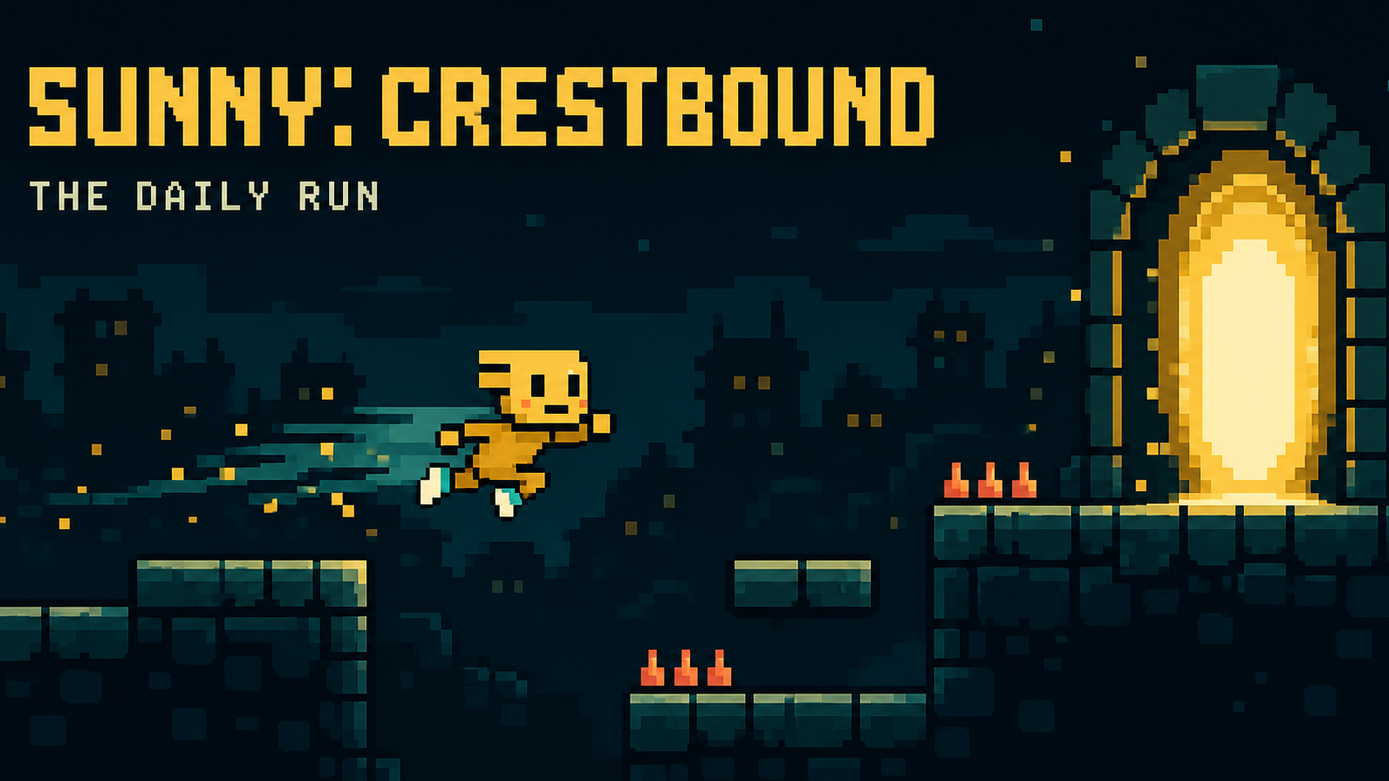
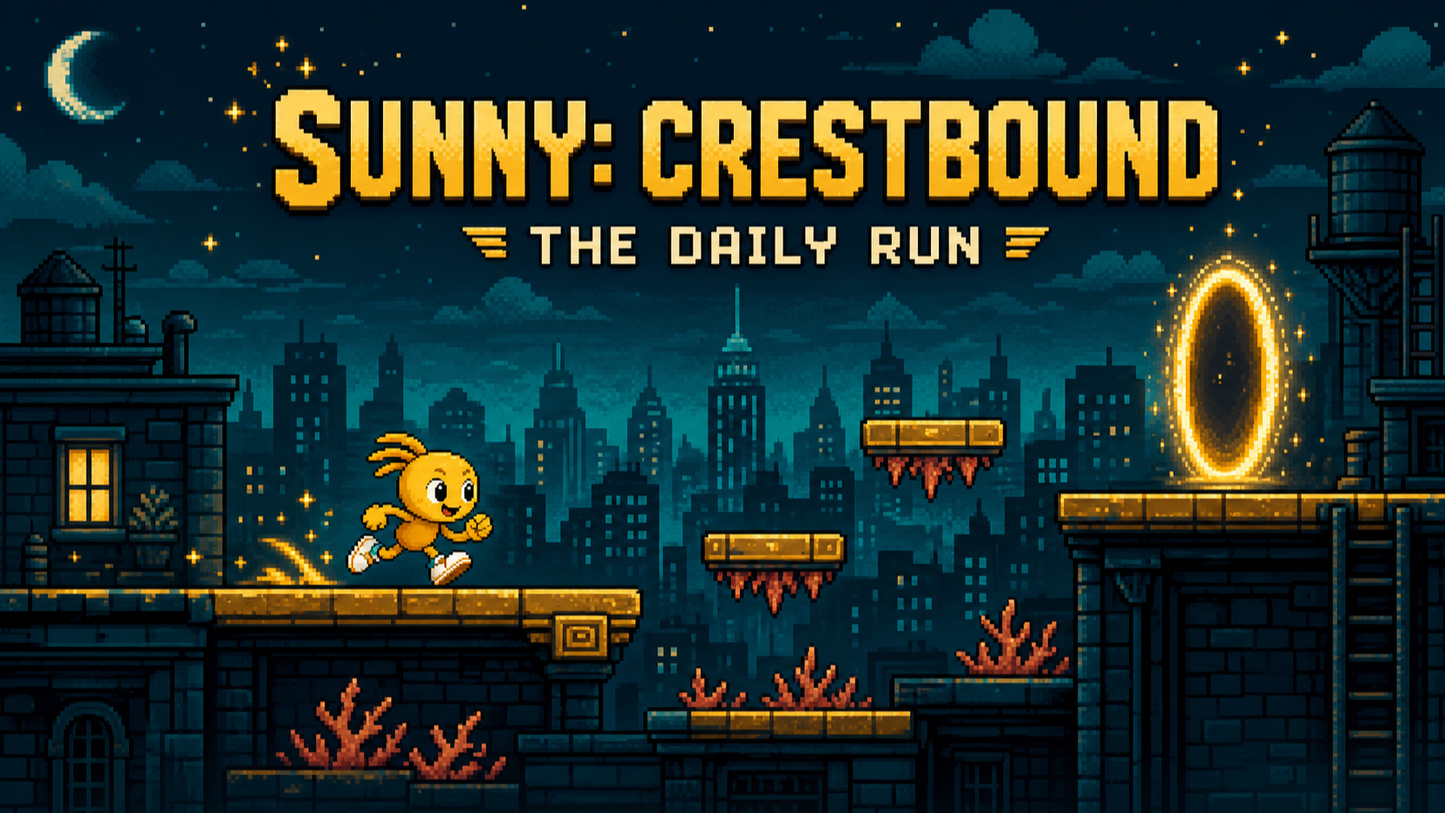
Fix Crestbound controls and collision polish

diff --git a/app/page.tsx b/app/page.tsx
@@ -2,10 +2,10 @@
 
 /* eslint-disable @next/next/no-img-element -- game sprites are rendered directly into canvas */
 
-import { FormEvent, useCallback, useEffect, useRef, useState } from 'react';
+import { FormEvent, PointerEvent as ReactPointerEvent, useCallback, useEffect, useRef, useState } from 'react';
 
 type Screen = 'title' | 'playing' | 'paused' | 'won' | 'over';
-type Hud = { sparks: number; total: number; lives: number; time: number; best: number | null; checkpoint: number };
+type Hud = { sparks: number; total: number; lives: number; time: number; best: number | null; checkpoint: number; progress: number };
 type Platform = { x: number; y: number; w: number; h: number; moving?: boolean; phase?: number; baseY?: number };
 type Spark = { x: number; y: number; taken?: boolean; secret?: boolean };
 type Enemy = { x: number; y: number; minX: number; maxX: number; speed: number; dir: number; alive: boolean };
@@ -72,7 +72,7 @@ export default function Home() {
   const [screen, setScreen] = useState<Screen>('title');
   const [muted, setMuted] = useState(false);
   const mutedRef = useRef(false);
-  const [hud, setHud] = useState<Hud>({ sparks: 0, total: sparkSeed.length, lives: 3, time: 0, best: null, checkpoint: 0 });
+  const [hud, setHud] = useState<Hud>({ sparks: 0, total: sparkSeed.length, lives: 3, time: 0, best: null, checkpoint: 0, progress: 0 });
   const audioRef = useRef<AudioContext | null>(null);
   const musicRef = useRef<{ timer: ReturnType<typeof setInterval>; gain: GainNode; step: number } | null>(null);
   const runIdRef = useRef<string | null>(null);
@@ -232,6 +232,30 @@ export default function Home() {
     if (active) canvasRef.current?.focus();
   }
 
+  function beginPress(control: keyof typeof inputRef.current, event: ReactPointerEvent<HTMLButtonElement>) {
+    event.preventDefault();
+    event.currentTarget.setPointerCapture(event.pointerId);
+    press(control, true);
+  }
+
+  function endPress(control: keyof typeof inputRef.current, event: ReactPointerEvent<HTMLButtonElement>) {
+    event.preventDefault();
+    if (event.currentTarget.hasPointerCapture(event.pointerId)) event.currentTarget.releasePointerCapture(event.pointerId);
+    press(control, false);
+  }
+
+  useEffect(() => {
+    const clearTouchInput = () => { inputRef.current = { left: false, right: false, jump: false, dash: false }; };
+    window.addEventListener('blur', clearTouchInput);
+    window.addEventListener('pointercancel', clearTouchInput);
+    document.addEventListener('visibilitychange', clearTouchInput);
+    return () => {
+      window.removeEventListener('blur', clearTouchInput);
+      window.removeEventListener('pointercancel', clearTouchInput);
+      document.removeEventListener('visibilitychange', clearTouchInput);
+    };
+  }, []);
+
   useEffect(() => {
     const canvas = canvasRef.current;
     if (!canvas) return;
@@ -241,7 +265,7 @@ export default function Home() {
     const spriteSheet = new Image();
     spriteSheet.src = '/sunny-pixel-master.svg';
     const keys = new Set<string>();
-    const player = { x: 120, y: 510, w: 50, h: 88, vx: 0, vy: 0, grounded: false, jumps: 0, dashTime: 0, dashCooldown: 0, facing: 1, invuln: 0 };
+    const player = { x: 120, y: 520, w: 46, h: 82, vx: 0, vy: 0, grounded: false, jumps: 0, dashTime: 0, dashCooldown: 0, facing: 1, invuln: 0 };
     let sparks = sparkSeed.map((item) => ({ ...item }));
     let enemies = enemySeed.map((item) => ({ ...item }));
     let lives = 3;
@@ -256,26 +280,28 @@ export default function Home() {
     let last = performance.now();
     let lastHud = 0;
     let animation = 0;
+    let screenShake = 0;
 
     const tone = sound;
     const overlap = (ax: number, ay: number, aw: number, ah: number, bx: number, by: number, bw: number, bh: number) => ax < bx + bw && ax + aw > bx && ay < by + bh && ay + ah > by;
     const resetPosition = () => {
-      player.x = checkpoints[checkpointIndex]; player.y = 500; player.vx = 0; player.vy = 0; player.invuln = 1.5;
+      player.x = checkpoints[checkpointIndex]; player.y = 520; player.vx = 0; player.vy = 0; player.invuln = 1.5;
     };
     const hurt = () => {
       if (player.invuln > 0) return;
       lives -= 1;
+      screenShake = .24;
       tone('hit');
       if (lives <= 0) {
         setGameScreen('over');
       } else resetPosition();
     };
     const reset = () => {
-      player.x = 120; player.y = 500; player.vx = 0; player.vy = 0; player.invuln = 0; player.jumps = 0;
+      player.x = 120; player.y = 520; player.vx = 0; player.vy = 0; player.invuln = 0; player.jumps = 0;
       sparks = sparkSeed.map((item) => ({ ...item }));
       enemies = enemySeed.map((item) => ({ ...item }));
       lives = 3; collected = 0; elapsed = 0; cameraX = 0; checkpointIndex = 0; jumpBuffer = 0; coyote = 0; previousJump = false; previousDash = false;
-      setHud((current) => ({ sparks: 0, total: sparkSeed.length, lives: 3, time: 0, best: current.best, checkpoint: 0 }));
+      setHud((current) => ({ sparks: 0, total: sparkSeed.length, lives: 3, time: 0, best: current.best, checkpoint: 0, progress: 0 }));
     };
     resetRef.current = reset;
 
@@ -287,8 +313,10 @@ export default function Home() {
       if ((event.code === 'Space' || event.code === 'ArrowUp' || event.code === 'KeyW') && !event.repeat) jumpBuffer = 0.14;
     }
     function keyUp(event: KeyboardEvent) { keys.delete(event.code); }
+    function clearKeys() { keys.clear(); }
     window.addEventListener('keydown', keyDown, { passive: false });
     window.addEventListener('keyup', keyUp);
+    window.addEventListener('blur', clearKeys);
 
     function inputState() {
       const pad = navigator.getGamepads?.()[0];
@@ -310,6 +338,7 @@ export default function Home() {
       const input = inputState();
       const direction = Number(input.right) - Number(input.left);
       if (direction) player.facing = direction;
+      if (direction && player.vx && Math.sign(player.vx) !== direction) player.vx *= .38;
       const acceleration = player.grounded ? 2200 : 1450;
       player.vx += direction * acceleration * dt;
       if (!direction) player.vx *= Math.pow(player.grounded ? 0.0008 : 0.08, dt);
@@ -322,32 +351,41 @@ export default function Home() {
       }
       if (!input.jump && player.vy < -260) player.vy += 1450 * dt;
       if (input.dash && !previousDash && player.dashCooldown <= 0) {
-        player.dashTime = 0.17; player.dashCooldown = 0.82; player.vx = player.facing * 900; player.vy *= 0.18; tone('dash');
+        player.dashTime = 0.17; player.dashCooldown = 0.82; player.vx = player.facing * 900; player.vy *= 0.18; screenShake = .08; tone('dash');
       }
       previousJump = input.jump;
       previousDash = input.dash;
       if (player.dashTime <= 0) player.vy += 1850 * dt;
       player.vy = Math.min(player.vy, 980);
+      screenShake = Math.max(0, screenShake - dt);
 
       const activePlatforms = platforms.map((platform) => {
         if (!platform.moving) return platform;
         return { ...platform, y: (platform.baseY ?? platform.y) + Math.sin(elapsed * 1.45 + (platform.phase ?? 0)) * 72 };
       });
+      const previousX = player.x;
       player.x += player.vx * dt;
       for (const platform of activePlatforms) {
-        if (!overlap(player.x, player.y, player.w, player.h, platform.x, platform.y, platform.w, platform.h)) continue;
-        if (player.vx > 0) player.x = platform.x - player.w;
-        else if (player.vx < 0) player.x = platform.x + platform.w;
-        player.vx *= -0.05;
+        const verticallyInside = player.y + 8 < platform.y + platform.h && player.y + player.h - 8 > platform.y;
+        if (!verticallyInside) continue;
+        const crossedLeftEdge = player.vx > 0 && previousX + player.w <= platform.x + 2 && player.x + player.w > platform.x;
+        const crossedRightEdge = player.vx < 0 && previousX >= platform.x + platform.w - 2 && player.x < platform.x + platform.w;
+        if (crossedLeftEdge) { player.x = platform.x - player.w; player.vx = 0; }
+        else if (crossedRightEdge) { player.x = platform.x + platform.w; player.vx = 0; }
       }
-      const previousBottom = player.y + player.h;
+      const previousY = player.y;
+      const previousBottom = previousY + player.h;
       player.y += player.vy * dt;
       player.grounded = false;
       for (const platform of activePlatforms) {
-        if (!overlap(player.x, player.y, player.w, player.h, platform.x, platform.y, platform.w, platform.h)) continue;
-        if (player.vy >= 0 && previousBottom <= platform.y + 18) {
+        const horizontallyInside = player.x + player.w - 7 > platform.x && player.x + 7 < platform.x + platform.w;
+        if (!horizontallyInside) continue;
+        const newBottom = player.y + player.h;
+        const landed = player.vy >= 0 && previousBottom <= platform.y + 4 && newBottom >= platform.y;
+        const hitCeiling = player.vy < 0 && previousY >= platform.y + platform.h - 4 && player.y <= platform.y + platform.h;
+        if (landed) {
           player.y = platform.y - player.h; player.vy = 0; player.grounded = true; player.jumps = 0;
-        } else if (player.vy < 0) { player.y = platform.y + platform.h; player.vy = 20; }
+        } else if (hitCeiling) { player.y = platform.y + platform.h; player.vy = 20; }
       }
       player.x = Math.max(0, Math.min(WORLD_W - player.w, player.x));
       if (player.y > 800) hurt();
@@ -376,23 +414,28 @@ export default function Home() {
       if (player.x > 7535) {
         const best = Number(window.localStorage.getItem('crestbound-best')) || Infinity;
         if (elapsed < best) window.localStorage.setItem('crestbound-best', String(elapsed));
-        setHud({ sparks: collected, total: sparks.length, lives, time: elapsed, best: Math.min(best, elapsed), checkpoint: checkpointIndex });
+        setHud({ sparks: collected, total: sparks.length, lives, time: elapsed, best: Math.min(best, elapsed), checkpoint: checkpointIndex, progress: player.x });
         recordStreak(); tone('win'); setGameScreen('won');
       }
       cameraX += (Math.max(0, Math.min(WORLD_W - VIEW_W, player.x - 390)) - cameraX) * Math.min(1, dt * 5.5);
       if (elapsed - lastHud > 0.08) {
         lastHud = elapsed;
         const stored = window.localStorage.getItem('crestbound-best');
-        setHud({ sparks: collected, total: sparks.length, lives, time: elapsed, best: stored ? Number(stored) : null, checkpoint: checkpointIndex });
+        setHud({ sparks: collected, total: sparks.length, lives, time: elapsed, best: stored ? Number(stored) : null, checkpoint: checkpointIndex, progress: player.x });
       }
     }
 
     function draw() {
       const ctx = context;
-      ctx.setTransform(.25, 0, 0, .25, 0, 0);
+      const shakeX = screenShake > 0 ? ((Math.floor(elapsed * 60) % 3) - 1) * 4 : 0;
+      ctx.setTransform(.25, 0, 0, .25, shakeX * .25, 0);
       ctx.imageSmoothingEnabled = false;
-      ctx.fillStyle = '#071820'; ctx.fillRect(0, 0, VIEW_W, VIEW_H);
-      ctx.fillStyle = '#0c2830'; ctx.fillRect(0, 252, VIEW_W, 468);
+      const zone = Math.min(3, Math.floor((cameraX + 240) / 1900));
+      const skyTop = ['#071820', '#081724', '#10152a', '#18182d'][zone];
+      const skyLow = ['#0c2830', '#102d38', '#18313c', '#3a2933'][zone];
+      ctx.fillStyle = skyTop; ctx.fillRect(-8, 0, VIEW_W + 16, VIEW_H);
+      ctx.fillStyle = skyLow; ctx.fillRect(-8, 252, VIEW_W + 16, 468);
+      ctx.fillStyle = ['#12343b', '#173744', '#233b45', '#51363a'][zone]; ctx.fillRect(-8, 360, VIEW_W + 16, 360);
       ctx.save();
       for (let index = 0; index < 54; index += 1) {
         const x = ((index * 193 - cameraX * .08) % 1500 + 1500) % 1500 - 100;
@@ -404,6 +447,7 @@ export default function Home() {
       const moonX = Math.floor((1060 - cameraX * .03) / 8) * 8;
       ctx.fillStyle = '#d18c18'; ctx.fillRect(moonX - 48, 72, 96, 112);
       ctx.fillStyle = '#f5d263'; ctx.fillRect(moonX - 64, 88, 128, 80); ctx.fillRect(moonX - 48, 72, 96, 112);
+      ctx.fillStyle = '#e2aa2f'; ctx.fillRect(moonX - 34, 92, 18, 16); ctx.fillRect(moonX + 18, 132, 24, 16); ctx.fillRect(moonX - 12, 156, 16, 12);
       for (let layer = 0; layer < 2; layer += 1) {
         const parallax = layer ? .32 : .17;
         const baseY = layer ? 505 : 430;
@@ -411,11 +455,18 @@ export default function Home() {
         for (let index = -1; index < 18; index += 1) {
           const x = index * 120 - ((cameraX * parallax) % 120);
           const h = 80 + Math.abs((index * 47 + layer * 31) % 150);
-          ctx.fillStyle = building; ctx.fillRect(Math.floor(x / 8) * 8, baseY - h, 96, h + 220);
-          ctx.fillStyle = layer ? '#2c5558' : '#315c60';
-          for (let wx = 16; wx < 80; wx += 24) for (let wy = baseY - h + 16; wy < baseY - 12; wy += 28) ctx.fillRect(Math.floor(x / 8) * 8 + wx, wy, 8, 12);
+          const buildingX = Math.floor(x / 8) * 8;
+          ctx.fillStyle = building; ctx.fillRect(buildingX, baseY - h, 96, h + 220);
+          if (index % 3 === 0) { ctx.fillRect(buildingX + 44, baseY - h - 28, 8, 28); ctx.fillRect(buildingX + 34, baseY - h - 28, 28, 5); }
+          for (let wx = 16; wx < 80; wx += 24) for (let wy = baseY - h + 16; wy < baseY - 12; wy += 28) {
+            const lit = (index + wx + wy + layer) % 4 !== 0;
+            ctx.fillStyle = lit ? (layer ? '#2c5558' : '#315c60') : (zone > 1 ? '#d18c18' : '#214246');
+            ctx.fillRect(buildingX + wx, wy, 8, 12);
+          }
         }
       }
+      ctx.fillStyle = '#78d7d2';
+      for (let index = 0; index < 16; index += 1) { const x = ((index * 101 - cameraX * .52) % 1440 + 1440) % 1440 - 80; ctx.fillRect(x, 520 + (index % 3) * 10, 10, 4); }
       ctx.restore();
 
       ctx.save(); ctx.translate(-cameraX, 0);
@@ -425,10 +476,21 @@ export default function Home() {
         ctx.fillStyle = '#08191c'; ctx.fillRect(px, py, platform.w, platform.h);
         ctx.fillStyle = '#b96f14'; ctx.fillRect(px, py, platform.w, 20);
         ctx.fillStyle = '#f2b52b'; ctx.fillRect(px, py, platform.w, 8);
+        ctx.fillStyle = '#fff0a8'; ctx.fillRect(px + 8, py + 2, Math.max(0, platform.w - 16), 2);
+        ctx.fillStyle = '#071316'; for (let x = px + 18; x < px + platform.w - 8; x += 48) ctx.fillRect(x, py + 12, 5, 5);
         for (let x = px; x < px + platform.w; x += 32) for (let y = py + 24; y < py + platform.h; y += 24) {
           ctx.fillStyle = ((x + y) / 8) % 2 ? '#12363a' : '#17454a'; ctx.fillRect(x, y, 24, 16);
         }
       });
+      const drawSign = (x: number, y: number, text: string, accent: string) => {
+        ctx.fillStyle = '#071316'; ctx.fillRect(x - 6, y - 6, 150, 48);
+        ctx.fillStyle = accent; ctx.fillRect(x, y, 138, 36);
+        ctx.fillStyle = '#071316'; ctx.fillRect(x + 5, y + 5, 128, 26);
+        ctx.fillStyle = accent; ctx.font = 'bold 18px monospace'; ctx.fillText(text, x + 12, y + 24);
+      };
+      drawSign(760, 535, 'KEEP GOING', '#78d7d2');
+      drawSign(3720, 545, 'HALFWAY', '#f5d263');
+      drawSign(7060, 540, 'FINAL PUSH', '#ef6f52');
       spikeZones.forEach((spike) => {
         ctx.fillStyle = '#f06f52';
         for (let x = spike.x; x < spike.x + spike.w; x += 24) { ctx.beginPath(); ctx.moveTo(x, spike.y + 24); ctx.lineTo(x + 12, spike.y); ctx.lineTo(x + 24, spike.y + 24); ctx.closePath(); ctx.fill(); }
@@ -444,7 +506,9 @@ export default function Home() {
         ctx.save(); ctx.translate(spark.x, spark.y + bob); const color = spark.secret ? '#78d7d2' : '#f5d263';
         ctx.fillStyle = '#071316'; ctx.fillRect(-12, -20, 24, 40); ctx.fillRect(-20, -12, 40, 24);
         ctx.fillStyle = color; ctx.fillRect(-8, -20, 16, 40); ctx.fillRect(-20, -8, 40, 16);
-        ctx.fillStyle = '#fff8e9'; ctx.fillRect(-4, -8, 8, 16); ctx.restore();
+        ctx.fillStyle = '#fff8e9'; ctx.fillRect(-4, -8, 8, 16);
+        if (Math.floor(elapsed * 6 + index) % 3 === 0) { ctx.fillRect(-24, -20, 4, 4); ctx.fillRect(20, 16, 4, 4); }
+        ctx.restore();
       });
       enemies.forEach((enemy) => {
         if (!enemy.alive) return;
@@ -453,6 +517,7 @@ export default function Home() {
         ctx.fillStyle = '#071316'; ctx.fillRect(ex - 16, ey - 8, 12, 12); ctx.fillRect(ex + 8, ey - 8, 12, 12);
         ctx.fillStyle = '#fff8e9'; ctx.fillRect(ex - 12, ey - 8, 4, 4); ctx.fillRect(ex + 12, ey - 8, 4, 4);
       });
+      ctx.fillStyle = '#071316'; ctx.fillRect(7500, 414, 88, 24); ctx.fillStyle = '#f5d263'; ctx.font = 'bold 16px monospace'; ctx.fillText('EXIT', 7520, 432);
       ctx.fillStyle = '#b96f14'; ctx.fillRect(7484, 440, 120, 180); ctx.fillStyle = '#f5d263'; ctx.fillRect(7496, 452, 96, 168);
       ctx.fillStyle = Math.floor(elapsed * 5) % 2 ? '#18a7a2' : '#78d7d2'; ctx.fillRect(7512, 468, 64, 152);
       ctx.fillStyle = '#071820'; ctx.fillRect(7528, 484, 32, 136);
@@ -465,8 +530,16 @@ export default function Home() {
       else if (!player.grounded) spriteIndex = player.vy < 0 ? 3 : 4;
       else if (Math.abs(player.vx) > 80) spriteIndex = Math.floor(elapsed * 10) % 2 ? 1 : 2;
       if (spriteSheet.complete && spriteSheet.naturalWidth) {
-        const drawH = spriteIndex === 5 ? 112 : 132;
+        const drawH = spriteIndex === 5 ? 106 : 116;
         const drawW = drawH * (32 / 48);
+        if (player.dashTime > 0) {
+          for (let trail = 3; trail > 0; trail -= 1) {
+            ctx.globalAlpha = .1 + trail * .08;
+            ctx.save(); ctx.translate(player.x + player.w / 2 - player.facing * trail * 30, player.y + player.h); ctx.scale(player.facing, 1);
+            ctx.drawImage(spriteSheet, 160, 0, 32, 48, -drawW / 2, -drawH, drawW, drawH); ctx.restore();
+          }
+          ctx.globalAlpha = 1;
+        }
         ctx.save(); ctx.translate(player.x + player.w / 2, player.y + player.h); ctx.scale(player.facing, 1);
         ctx.drawImage(spriteSheet, spriteIndex * 32, 0, 32, 48, -drawW / 2, -drawH, drawW, drawH); ctx.restore();
       } else { ctx.fillStyle = '#f5d263'; ctx.fillRect(player.x, player.y, player.w, player.h); }
@@ -482,7 +555,7 @@ export default function Home() {
     }
     animation = requestAnimationFrame(loop);
     return () => {
-      cancelAnimationFrame(animation); stopMusic(); window.removeEventListener('keydown', keyDown); window.removeEventListener('keyup', keyUp); resetRef.current = null;
+      cancelAnimationFrame(animation); stopMusic(); window.removeEventListener('keydown', keyDown); window.removeEventListener('keyup', keyUp); window.removeEventListener('blur', clearKeys); resetRef.current = null;
     };
   }, []);
 
@@ -503,6 +576,7 @@ export default function Home() {
               <button type="button" onClick={toggleSound} aria-label={muted ? 'Turn sound on' : 'Mute sound'}>{muted ? 'MUTE' : '♪ ON'}</button>
               <button type="button" onClick={togglePause} aria-label={screen === 'paused' ? 'Resume game' : 'Pause game'}>{screen === 'paused' ? '▶' : 'Ⅱ'}</button>
             </div>
+            <div className="route-meter" aria-label={`${Math.round(hud.progress / (WORLD_W - 265) * 100)} percent through the course`}><span style={{ width: `${Math.min(100, hud.progress / (WORLD_W - 265) * 100)}%` }} /></div>
           </header>
         )}
 
@@ -552,8 +626,8 @@ export default function Home() {
 
         {screen === 'playing' && (
           <div className="touch-controls" aria-label="Touch controls">
-            <div><button type="button" aria-label="Move left" onPointerDown={() => press('left', true)} onPointerUp={() => press('left', false)} onPointerCancel={() => press('left', false)}>←</button><button type="button" aria-label="Move right" onPointerDown={() => press('right', true)} onPointerUp={() => press('right', false)} onPointerCancel={() => press('right', false)}>→</button></div>
-            <div><button className="dash-control" type="button" aria-label="Dash" onPointerDown={() => press('dash', true)} onPointerUp={() => press('dash', false)} onPointerCancel={() => press('dash', false)}>DASH</button><button className="jump-control" type="button" aria-label="Jump" onPointerDown={() => press('jump', true)} onPointerUp={() => press('jump', false)} onPointerCancel={() => press('jump', false)}>JUMP</button></div>
+            <div><button type="button" aria-label="Move left" onPointerDown={(event) => beginPress('left', event)} onPointerUp={(event) => endPress('left', event)} onPointerCancel={(event) => endPress('left', event)} onLostPointerCapture={() => press('left', false)}>←</button><button type="button" aria-label="Move right" onPointerDown={(event) => beginPress('right', event)} onPointerUp={(event) => endPress('right', event)} onPointerCancel={(event) => endPress('right', event)} onLostPointerCapture={() => press('right', false)}>→</button></div>
+            <div><button className="dash-control" type="button" aria-label="Dash" onPointerDown={(event) => beginPress('dash', event)} onPointerUp={(event) => endPress('dash', event)} onPointerCancel={(event) => endPress('dash', event)} onLostPointerCapture={() => press('dash', false)}>DASH</button><button className="jump-control" type="button" aria-label="Jump" onPointerDown={(event) => beginPress('jump', event)} onPointerUp={(event) => endPress('jump', event)} onPointerCancel={(event) => endPress('jump', event)} onLostPointerCapture={() => press('jump', false)}>JUMP</button></div>
           </div>
         )}
       </section>

diff --git a/app/globals.css b/app/globals.css
@@ -7,11 +7,12 @@ button, input { font: inherit; }
 button:focus-visible, input:focus-visible, canvas:focus-visible { outline: 4px solid var(--teal-light); outline-offset: 3px; }
 body { overflow: hidden; color: var(--cream); background: #071316; font-family: var(--font-geist-mono), ui-monospace, monospace; image-rendering: pixelated; }
 .shell { min-height: 100svh; display: grid; place-items: center; padding: 16px; background: #071316; }
-.game-frame { position: relative; width: min(1280px, 100%); aspect-ratio: 16/9; max-height: calc(100svh - 32px); overflow: hidden; isolation: isolate; border: 6px solid #171b1c; background: #0d2428; box-shadow: 0 0 0 4px #e2aa2f, 12px 12px 0 #020707; }
+.game-frame { position: relative; width: min(1280px, 100%); aspect-ratio: 16/9; max-height: calc(100svh - 32px); overflow: hidden; isolation: isolate; border: 6px solid #171b1c; background: #0d2428; box-shadow: 0 0 0 4px #e2aa2f, 0 0 0 8px #0b252a, 14px 14px 0 #020707; }
+.game-frame::after { position: absolute; z-index: 40; inset: 0; content: ''; pointer-events: none; background: repeating-linear-gradient(0deg, rgb(255 255 255 / 0%) 0 3px, rgb(1 10 12 / 9%) 3px 4px); mix-blend-mode: multiply; }
 .game-canvas { position: absolute; inset: 0; width: 100%; height: 100%; display: block; outline: none; image-rendering: pixelated; image-rendering: crisp-edges; }
 
 .title-screen { position: absolute; z-index: 4; inset: 0; display: grid; grid-template-columns: minmax(0, 1fr) 360px; align-items: center; gap: 42px; padding: 48px 54px; background: rgb(3 13 16 / 44%); }
-.title-card { min-width: 0; text-shadow: 4px 4px 0 #071316; }
+.title-card { min-width: 0; padding-left: 24px; border-left: 6px solid var(--gold); text-shadow: 4px 4px 0 #071316; }
 .kicker { margin: 0 0 12px; color: var(--teal-light); font-size: 12px; font-weight: 900; letter-spacing: .16em; }
 .title-card h1 { margin: 0; font-size: clamp(45px, 6.5vw, 82px); line-height: .86; letter-spacing: -.07em; text-transform: uppercase; text-shadow: 6px 6px 0 #171b1c; }
 .title-card h1 span { display: block; color: var(--gold); }
@@ -41,6 +42,8 @@ body { overflow: hidden; color: var(--cream); background: #071316; font-family: 
 .mini-sun { width: 30px; height: 30px; display: grid; place-items: center; border: 3px solid #171b1c; color: #172327; background: var(--gold); font-size: 15px; }
 .hud-stats { gap: 0; padding: 4px; border: 3px solid #171b1c; outline: 2px solid #52777a; background: #071b20; }.hud-stats span { min-width: 82px; display: grid; place-items: center; padding: 2px 9px; border-right: 2px solid #315357; }.hud-stats span:last-child { border-right: 0; }.hud-stats b { color: #fff6d6; font-size: 14px; }.hud-stats span:first-child b { color: var(--coral); }.hud-stats small { margin-top: 2px; color: #789b9c; font-size: 8px; font-weight: 900; letter-spacing: .13em; }
 .hud-actions { justify-content: flex-end; gap: 7px; pointer-events: auto; }.hud-actions button { min-width: 42px; height: 38px; padding: 0 7px; border: 3px solid #171b1c; color: #fff; background: #0d2b31; cursor: pointer; font-size: 10px; font-weight: 900; }
+.route-meter { grid-column: 1 / -1; height: 7px; margin: -8px 42px 0; border: 2px solid #071316; background: #17353a; box-shadow: 2px 2px 0 rgb(0 0 0 / 45%); overflow: hidden; }
+.route-meter span { height: 100%; display: block; background: repeating-linear-gradient(90deg, var(--gold) 0 20px, var(--gold-light) 20px 24px); transition: width 100ms steps(4); }
 
 .game-modal { position: absolute; z-index: 20; left: 50%; top: 50%; width: min(540px, calc(100% - 36px)); transform: translate(-50%, -50%); padding: 28px; border: 4px solid #171b1c; outline: 3px solid #54777a; background: #071b20; box-shadow: 10px 10px 0 #020707; text-align: center; }.game-modal > p:first-child { margin: 0; color: var(--teal-light); font-size: 10px; font-weight: 900; letter-spacing: .16em; }.game-modal h2 { margin: 8px 0 15px; font-size: clamp(30px, 5vw, 48px); line-height: .95; text-transform: uppercase; text-shadow: 4px 4px 0 #171b1c; }.game-modal > p:not(:first-child) { margin: -3px auto 22px; max-width: 390px; color: #aac4c3; line-height: 1.45; }.game-modal > button { min-width: 190px; }.game-modal .secondary { display: block; min-height: 40px; margin: 14px auto 0; border-width: 2px; color: #9dbaba; background: transparent; box-shadow: none; font-size: 11px; }
 .win-modal { width: min(600px, calc(100% - 28px)); outline-color: #b98922; }.result-grid { display: grid; grid-template-columns: repeat(3, 1fr); gap: 7px; margin: 18px 0; }.result-grid span { display: grid; gap: 4px; padding: 11px 7px; border: 3px solid #263f42; background: #0b282d; }.result-grid b { color: var(--gold-light); font-size: 18px; }.result-grid small { color: #819d9c; font-size: 8px; font-weight: 900; letter-spacing: .12em; }
@@ -48,6 +51,7 @@ body { overflow: hidden; color: var(--cream); background: #071316; font-family: 
 
 .touch-controls { position: absolute; z-index: 12; left: 16px; right: 16px; bottom: 13px; display: none; justify-content: space-between; align-items: end; pointer-events: none; }.touch-controls > div { display: flex; gap: 9px; pointer-events: auto; }.touch-controls button { width: 60px; height: 60px; border: 4px solid #171b1c; color: #fff; background: rgb(7 27 32 / 88%); box-shadow: 4px 4px 0 #020707; font-size: 24px; font-weight: 900; touch-action: none; user-select: none; }.touch-controls .dash-control, .touch-controls .jump-control { width: 70px; height: 70px; font-size: 10px; }.touch-controls .dash-control { color: var(--teal-light); }.touch-controls .jump-control { color: #172327; background: var(--gold); }.touch-controls button:active { transform: translate(3px, 3px); box-shadow: 1px 1px 0 #020707; }
 
+.touch-controls button { outline: 2px solid #3e696d; background: rgb(7 27 32 / 92%); box-shadow: 5px 5px 0 #020707; }
 @media (pointer: coarse), (max-width: 820px) { .touch-controls { display: flex; } }
 @media (max-width: 900px) { .title-screen { grid-template-columns: 1fr 300px; gap: 25px; padding: 34px; }.title-card h1 { font-size: clamp(42px, 7vw, 62px); }.title-card > p:not(.kicker):not(.controller-note) { font-size: 13px; }.control-hint, .controller-note { display: none; }.board-list { min-height: 210px; }.board-list li { min-height: 30px; } }
 @media (max-width: 700px) { .shell { padding: 0; }.game-frame { width: 100%; height: 100svh; max-height: none; aspect-ratio: auto; border: 0; box-shadow: none; }.game-canvas { object-fit: cover; object-position: center; }.title-screen { display: block; overflow-y: auto; padding: max(28px, env(safe-area-inset-top)) 22px 90px; background: rgb(3 13 16 / 64%); }.title-card { padding-top: 6px; }.title-card h1 { font-size: clamp(48px, 14vw, 68px); }.title-card > p:not(.kicker):not(.controller-note) { max-width: 500px; margin: 16px 0; font-size: 13px; }.title-meta span:nth-child(2), .title-meta span:nth-child(3) { display: none; }.leaderboard { margin-top: 28px; }.board-list { min-height: auto; }.board-list li { min-height: 32px; }.hud { grid-template-columns: auto 1fr auto; left: 8px; right: 8px; top: max(7px, env(safe-area-inset-top)); gap: 6px; }.hud-brand strong { display: none; }.hud-stats { justify-self: center; padding: 3px; }.hud-stats span { min-width: 58px; padding-inline: 4px; }.hud-stats b { font-size: 11px; }.hud-actions button { min-width: 36px; height: 34px; padding: 0 4px; }.game-modal { padding: 20px 16px; }.score-form { padding: 9px; } }

diff --git a/app/layout.tsx b/app/layout.tsx
@@ -21,7 +21,7 @@ export const metadata: Metadata = {
     description: 'Run the skyline. Recover the lost light.',
     url: 'https://sunny-crestbound.suncrest-7012.chatgpt.site',
     siteName: 'Suncrest Games',
-    images: [{ url: '/og-pixel.png', width: 1600, height: 900, alt: 'Sunny: Crestbound daily pixel platformer' }],
+    images: [{ url: '/og-pixel.png', width: 1664, height: 936, alt: 'Sunny: Crestbound daily pixel platformer' }],
     type: 'website',
   },
   twitter: {
